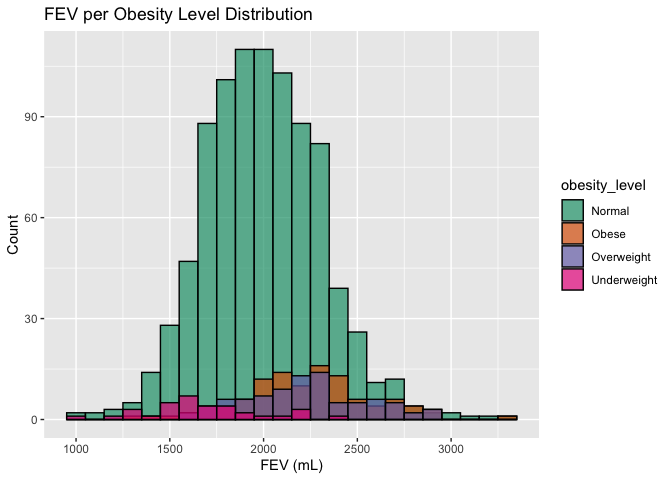
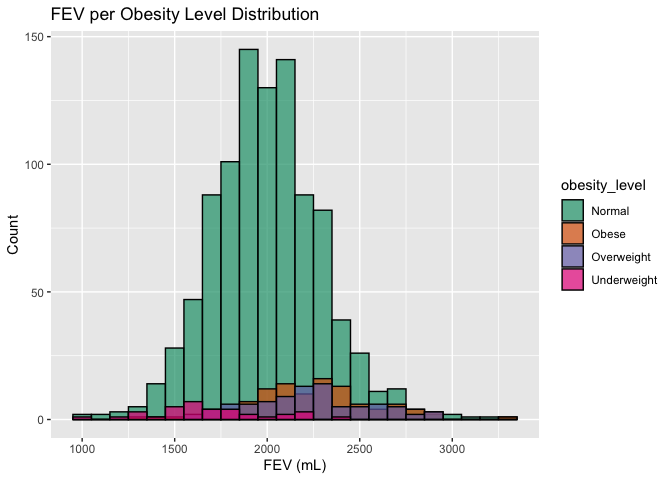
final hw 2 https://github.com/USCbiostats/PM566/issues/60

diff --git a/hw2/pm566-hw2.md b/hw2/pm566-hw2.md
@@ -124,6 +124,8 @@ chs <- merge(
   all.x = TRUE,      
   all.y = FALSE
   )
+
+chs <- data.table(chs)
 ```
 
 ## 1. After merging the data, make sure you don’t have any duplicates by counting the number of rows. Make sure it matches.
@@ -137,6 +139,7 @@ skimr::skim(chs)
 | Name                                             | chs  |
 | Number of rows                                   | 1200 |
 | Number of columns                                | 49   |
+| Key                                              | NULL |
 | \_\_\_\_\_\_\_\_\_\_\_\_\_\_\_\_\_\_\_\_\_\_\_   |      |
 | Column type frequency:                           |      |
 | character                                        | 2    |
@@ -230,7 +233,6 @@ which(colSums(is.na(chs)) > 0)
     ##            23            43            44
 
 ``` r
-chs <- data.table(chs)
 chs[, bmi_imp := fcoalesce(bmi, mean(bmi, na.rm = TRUE)), by = .(male, hispanic)]
 chs[ , fev_imp := fcoalesce(fev, mean(fev, na.rm = TRUE)), by = .(male, hispanic)]
 ```
@@ -253,16 +255,16 @@ chs <-
 chs %>%
   group_by(obesity_level) %>%
   summarise(
-    min_bmi  = min(bmi), 
-    max_bmi  = max(bmi),
-    mean_bmi = mean(bmi),
+    min_bmi  = min(bmi_imp), 
+    max_bmi  = max(bmi_imp),
+    mean_bmi = mean(bmi_imp),
     n_bmi    = n()) %>%
 knitr::kable()
 ```
 
 | obesity_level |  min_bmi |  max_bmi | mean_bmi | n_bmi |
 |:--------------|---------:|---------:|---------:|------:|
-| Normal        |       NA |       NA |       NA |   975 |
+| Normal        | 14.00380 | 21.96387 | 17.39557 |   975 |
 | Obese         | 24.00647 | 41.26613 | 26.97446 |   103 |
 | Overweight    | 22.02353 | 23.99650 | 22.93748 |    87 |
 | Underweight   | 11.29640 | 13.98601 | 13.32074 |    35 |
@@ -276,14 +278,16 @@ chs <-
                                         chs$smoke == 1 & chs$gasstove == 1 ~ 'Smoke & gas exposure',
                                         chs$smoke == 0 & chs$gasstove == 1 ~ 'Gas exposure',
                                         chs$smoke == 1 & chs$gasstove == 0 ~ 'Smoke exposure'))
-table(chs$smoke_gas_exposure)
+table(chs$smoke_gas_exposure)%>%
+knitr::kable()
 ```
 
-    ## 
-    ##         Gas exposure          No exposure Smoke & gas exposure 
-    ##                  739                  214                  151 
-    ##       Smoke exposure 
-    ##                   36
+| Var1                 | Freq |
+|:---------------------|-----:|
+| Gas exposure         |  739 |
+| No exposure          |  214 |
+| Smoke & gas exposure |  151 |
+| Smoke exposure       |   36 |
 
 ## Create four summary tables showing the average (or proportion, if binary) and sd of “Forced expiratory volume in 1 second (ml)” and asthma indicator by town, sex, obesity level, and “smoke_gas_exposure.”
 
@@ -294,26 +298,25 @@ chs %>%
     n    = n(),
     mean_fev  = mean(fev_imp), 
     sd_fev  = sd(fev_imp),
-    mean_fev = mean(fev_imp)) %>%
-    #prop_asthma = sum(asthma)/n()*100) %>%
-  #distinct(townname, .keep_all = T) %>%
+    mean_fev = mean(fev_imp),
+    asthma_ind = sum(asthma, na.rm = T) / sum(!is.na(asthma)) * 100) %>%
 knitr::kable()
 ```
 
-| townname      |   n | mean_fev |   sd_fev |
-|:--------------|----:|---------:|---------:|
-| Alpine        | 100 | 2087.101 | 291.1768 |
-| Atascadero    | 100 | 2075.897 | 324.0935 |
-| Lake Elsinore | 100 | 2038.849 | 303.6956 |
-| Lake Gregory  | 100 | 2084.700 | 319.9593 |
-| Lancaster     | 100 | 2003.044 | 317.1298 |
-| Lompoc        | 100 | 2034.354 | 351.0454 |
-| Long Beach    | 100 | 1985.861 | 319.4625 |
-| Mira Loma     | 100 | 1985.202 | 324.9634 |
-| Riverside     | 100 | 1989.881 | 277.5065 |
-| San Dimas     | 100 | 2026.794 | 318.7845 |
-| Santa Maria   | 100 | 2025.750 | 312.1725 |
-| Upland        | 100 | 2024.266 | 343.1637 |
+| townname      |   n | mean_fev |   sd_fev | asthma_ind |
+|:--------------|----:|---------:|---------:|-----------:|
+| Alpine        | 100 | 2087.101 | 291.1768 |   11.34021 |
+| Atascadero    | 100 | 2075.897 | 324.0935 |   25.51020 |
+| Lake Elsinore | 100 | 2038.849 | 303.6956 |   12.63158 |
+| Lake Gregory  | 100 | 2084.700 | 319.9593 |   15.15152 |
+| Lancaster     | 100 | 2003.044 | 317.1298 |   16.49485 |
+| Lompoc        | 100 | 2034.354 | 351.0454 |   11.34021 |
+| Long Beach    | 100 | 1985.861 | 319.4625 |   13.54167 |
+| Mira Loma     | 100 | 1985.202 | 324.9634 |   15.78947 |
+| Riverside     | 100 | 1989.881 | 277.5065 |   11.00000 |
+| San Dimas     | 100 | 2026.794 | 318.7845 |   17.17172 |
+| Santa Maria   | 100 | 2025.750 | 312.1725 |   13.40206 |
+| Upland        | 100 | 2024.266 | 343.1637 |   12.12121 |
 
 # EDA
 
@@ -430,8 +433,8 @@ summary(chs$pm2_5_fr)
 
 ``` r
 chs %>%
-  ggplot(aes(x = bmi, y = fev, group = townname)) +
-  geom_point(mapping = aes(x = bmi, y = fev, color = townname)) +
+  ggplot(aes(x = bmi_imp, y = fev_imp, group = townname)) +
+  geom_point(mapping = aes(x = bmi_imp, y = fev_imp, color = townname)) +
   geom_smooth(se = T, method = "lm") +
   scale_color_brewer(palette = "Paired") +
   facet_wrap( ~ townname, nrow= 3) +
@@ -441,10 +444,6 @@ chs %>%
 ```
 
     ## `geom_smooth()` using formula 'y ~ x'
-
-    ## Warning: Removed 95 rows containing non-finite values (stat_smooth).
-
-    ## Warning: Removed 95 rows containing missing values (geom_point).
 
 ![](pm566-hw2_files/figure-gfm/unnamed-chunk-12-1.png)<!-- --> All the
 towns show a positive linear relationship with BMI and FEV meaning as
@@ -457,15 +456,13 @@ conducted to confirm.
 
 ``` r
 chs %>%
-  ggplot(mapping = aes(x = fev, fill = obesity_level)) + 
+  ggplot(mapping = aes(x = fev_imp, fill = obesity_level)) + 
   geom_histogram(position = "identity", alpha = 0.7, binwidth = 100, color = "black") +
   scale_fill_brewer(palette = "Dark2") +
   ggtitle("FEV per Obesity Level Distribution") +
   xlab("FEV (mL)") +
   ylab("Count")
 ```
-
-    ## Warning: Removed 95 rows containing non-finite values (stat_bin).
 
 ![](pm566-hw2_files/figure-gfm/unnamed-chunk-13-1.png)<!-- --> Here is
 the distribution breakdown of FEV per obesity levels. Normal BMI level
@@ -476,15 +473,13 @@ those with obese BMI level have a higher FEV.
 
 ``` r
 chs %>%
-  ggplot(mapping = aes(x = fev, fill = smoke_gas_exposure)) + 
+  ggplot(mapping = aes(x = fev_imp, fill = smoke_gas_exposure)) + 
   geom_histogram(position = "identity", alpha = 0.7, binwidth = 100, color = "black") +
   scale_fill_brewer(palette = "Set1") +
   ggtitle("FEV per Smoke Gas Exposure Distribution") +
   xlab("FEV (mL)") +
   ylab("Count")
 ```
-
-    ## Warning: Removed 95 rows containing non-finite values (stat_bin).
 
 ![](pm566-hw2_files/figure-gfm/unnamed-chunk-14-1.png)<!-- --> Here is a
 distribution breakdown of FEV per smoke gas exposure. The majority of
@@ -496,7 +491,7 @@ individuals.
 ## 3. Barchart of BMI by smoke/gas exposure.
 
 ``` r
-chs %>%
+chs%>%
   ggplot(mapping = aes(x = obesity_level, fill = factor(smoke_gas_exposure))) + 
   geom_bar(position = "dodge") +
   scale_fill_brewer(palette = "Paired") +
@@ -515,33 +510,29 @@ BMI categories, gas exposure is the highest.
 
 ``` r
 chs %>%
-    ggplot(mapping = aes(x = obesity_level, y = fev, color = obesity_level)) + 
+    ggplot(mapping = aes(x = obesity_level, y = fev_imp, color = obesity_level)) + 
     stat_summary(fun.data = mean_sdl, geom = "pointrange") +
     stat_summary(fun.data = mean_sdl, geom = "errorbar")+
   labs (title = "Statisitical Summary of FEV by BMI")
 ```
 
-    ## Warning: Removed 95 rows containing non-finite values (stat_summary).
-    ## Removed 95 rows containing non-finite values (stat_summary).
-
 ![](pm566-hw2_files/figure-gfm/unnamed-chunk-16-1.png)<!-- -->
-
-ADD INTERPRETATION
+Individuals with obese and overweight BMI levels have a higher FEV than
+individuals with normal or underweight BMI. Underweight has the lowest
+FEV out of all.
 
 ``` r
 chs %>%
-    ggplot(mapping = aes(x = smoke_gas_exposure, y = fev, color = smoke_gas_exposure)) + 
+    ggplot(mapping = aes(x = smoke_gas_exposure, y = fev_imp, color = smoke_gas_exposure)) + 
     stat_summary(fun.data = mean_sdl, geom = "pointrange") +
     stat_summary(fun.data = mean_sdl, geom = "errorbar")+
   labs (title = "Statisitical Summary of FEV by Exposure")
 ```
 
-    ## Warning: Removed 95 rows containing non-finite values (stat_summary).
-    ## Removed 95 rows containing non-finite values (stat_summary).
-
 ![](pm566-hw2_files/figure-gfm/unnamed-chunk-17-1.png)<!-- -->
 
-ADD INTERPRETATION
+There is not much of a difference in mean of FEV across smoke and gas
+exposure.
 
 ## 5. A leaflet map showing the concentrations of PM2.5 mass in each of the CHS communities.
 
@@ -582,7 +573,7 @@ lower levels of PM 2.5 mass concentration.
 
 ``` r
 chs %>%
-    ggplot(mapping = aes(x = pm25_mass, y = fev, color = fev)) + 
+    ggplot(mapping = aes(x = pm25_mass, y = fev_imp, color = fev_imp)) + 
     geom_point(mapping = aes(x = pm25_mass, y = fev)) +
     scale_color_gradient(low = "blue", high = "red") +
     geom_jitter() +
@@ -591,10 +582,7 @@ chs %>%
 
     ## `geom_smooth()` using formula 'y ~ x'
 
-    ## Warning: Removed 95 rows containing non-finite values (stat_smooth).
-
     ## Warning: Removed 95 rows containing missing values (geom_point).
-    ## Removed 95 rows containing missing values (geom_point).
 
 ![](pm566-hw2_files/figure-gfm/unnamed-chunk-20-1.png)<!-- --> Above is
 a graph of the relationship between PM 2.5 mass and FEV. We see three
